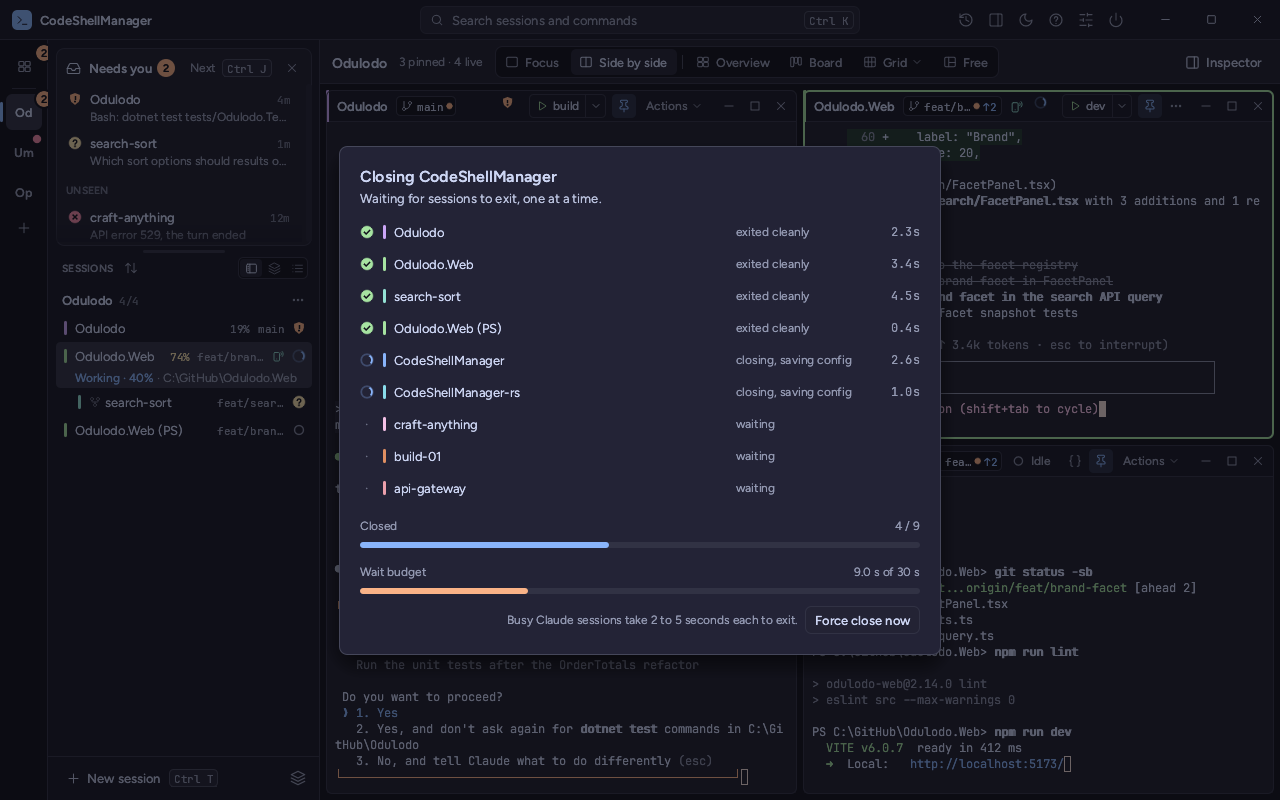
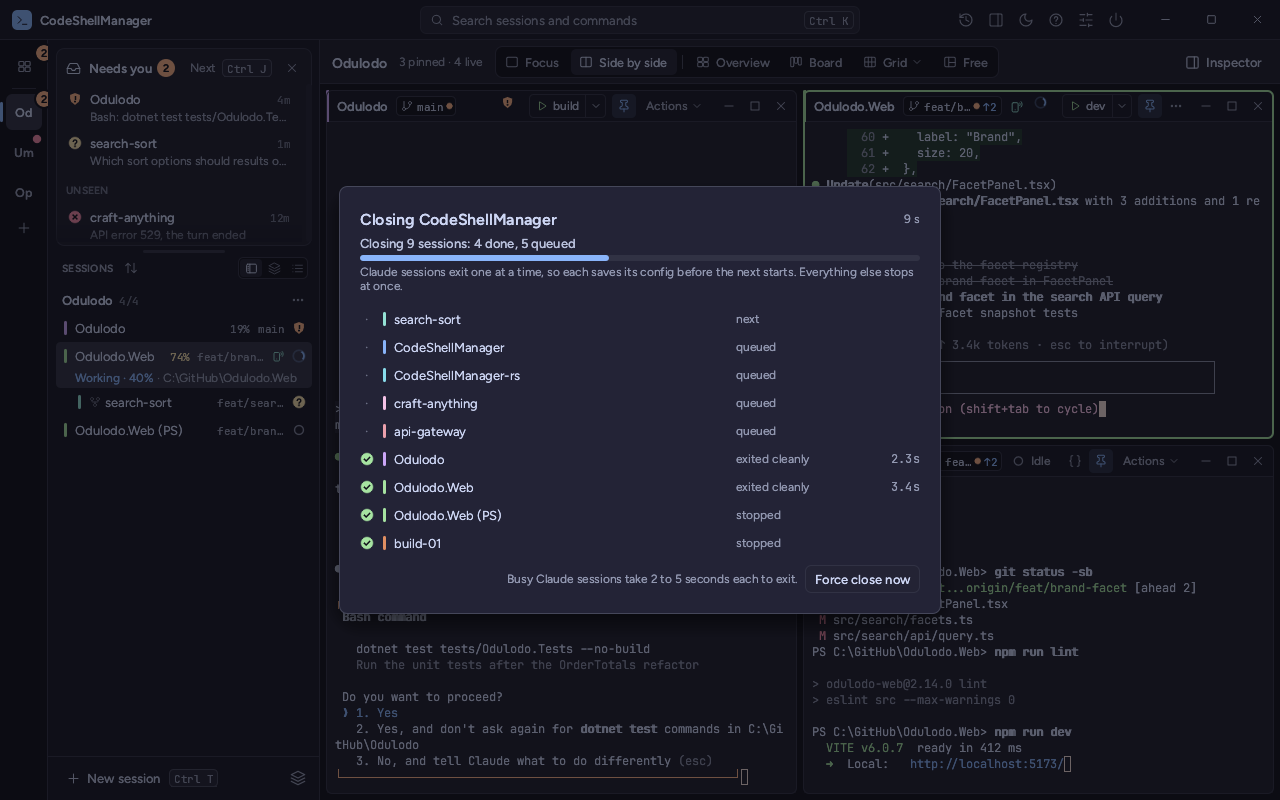
Quit board: fits the window, scrolls its rows, says what each is waiting for
- The board was one column of every row with nothing bounding its height: with ~70 sessions
  it ran off both ends of the window, hiding the title and Force close now. The header (title,
  "Closing N sessions: d done, c closing, q queued", the bar, elapsed time) and the footer now
  stay put and the rows scroll between them, sized to the window, down to a two-row list.
- Rows are ordered closing, forced, the queue in the engine's order (non-Claude first, then
  Claude sessions in sidebar order), then done (ShutdownBoard::ordered, tested).
- Waiting is by design: Claude sessions exit one at a time with the launch stagger between them
  so two never rewrite ~/.claude.json at once. Rows now say so: "next", "queued",
  "waiting for Claude to exit"; a shell reads "stopped" (it is killed, no wait, so no 0.0s);
  a Claude that was already gone reads "had already exited"; a forced row no longer claims
  "after 10 s" (the wait is 15 s per session).
- Demo board follows the engine's serial order; screenshots 10-shutdown-many(-short) with 73
  sessions in 1000x560 and 760x320 windows.

Claude-Session: https://claude.ai/code/session_01W5FasiVSwTVCABQ9n9zXTw

Changed region(s): [[0.25, 0.1562, 0.75, 0.8438], [0.5625, 0.4062, 0.6562, 0.625]]

diff --git a/crates/csm-ui/src/screens/overlays.rs b/crates/csm-ui/src/screens/overlays.rs
@@ -459,91 +459,87 @@ fn busy_dialog(ctx: &egui::Context, app: &mut CsmApp, actions: &mut Vec<Action>)
     });
 }
 
+/// The shutdown board. It always fits the window: the header (title, the count and the bar) and
+/// the footer (Force close now) stay put, and the rows scroll between them, the one closing now
+/// first, then the queue in the engine's order, then the ones that are done.
 fn shutdown_board(ctx: &egui::Context, app: &mut CsmApp, actions: &mut Vec<Action>) {
     let Some(board) = app.model.shutdown.clone() else { return };
     let t = Tokens::get(ctx);
     scrim(ctx, "shutdown-scrim");
     let screen = ctx.content_rect();
-    let done = board.rows.iter().filter(|r| matches!(r.state, ShutdownRowState::Clean | ShutdownRowState::Forced)).count();
+    let total = board.rows.len();
+    let done = board.done();
+    let closing = board.rows.iter().filter(|r| r.state == ShutdownRowState::Closing).count();
+    let queued = total.saturating_sub(done + closing);
     let any_forced = board.rows.iter().any(|r| r.state == ShutdownRowState::Forced);
     let hint = if any_forced {
-        "One session did not answer. It was closed without waiting; nothing else was lost."
+        "A session did not answer. It was closed without waiting; nothing else was lost."
     } else if board.budget_used_s < 6.0 {
         "Claude sessions get time to exit on their own so they can save their config."
     } else {
         "Busy Claude sessions take 2 to 5 seconds each to exit."
     };
+    let summary = match (done, closing) {
+        _ if done == total => format!("Closed all {total} sessions"),
+        (_, 0) => format!("Closing {total} sessions: {done} done, {queued} queued"),
+        _ => format!("Closing {total} sessions: {done} done, {closing} closing, {queued} queued"),
+    };
+    let is_claude = |id: &String| app.model.session(id).is_some_and(|s| s.is_claude());
+    let rows: Vec<_> = board.ordered(is_claude).into_iter().filter_map(|r| app.model.session(&r.session).map(|s| (r, s))).collect();
+    let next_claude = rows.iter().find(|(r, s)| r.state == ShutdownRowState::Pending && s.is_claude()).map(|(r, _)| r.session.clone());
+
+    let pad = space::LG + space::XS;
+    let width = size::BOARD_W.min(screen.width() - 2.0 * (space::LG + pad)).max(size::MENU_W);
+    let max_h = (screen.height() - 2.0 * (space::LG + pad)).max(size::ROW * 2.0);
+    // The footer's height from the last frame, so the list leaves room for it.
+    let footer_id = Id::new("shutdown-footer-h");
+    let footer_h = ctx.data(|d| d.get_temp::<f32>(footer_id)).unwrap_or(size::CONTROL_LG + size::ROW);
     egui::Area::new(Id::new("shutdown")).order(Order::Foreground).pivot(Align2::CENTER_CENTER).fixed_pos(screen.center()).show(ctx, |ui| {
-        widgets::pop_frame(&t).inner_margin(egui::Margin::same((space::LG + space::XS) as i8)).show(ui, |ui| {
-            ui.set_width(size::BOARD_W);
+        widgets::pop_frame(&t).inner_margin(egui::Margin::same(pad as i8)).show(ui, |ui| {
+            ui.set_width(width);
+            ui.set_max_height(max_h);
             ui.spacing_mut().item_spacing.y = space::XS;
-            ui.label(egui::RichText::new("Closing CodeShellManager").font(semibold(text::TITLE)).color(t.fg));
-            ui.label(egui::RichText::new("Waiting for sessions to exit, one at a time.").font(theme::regular(text::BODY)).color(t.fg2));
-            ui.add_space(space::SM);
-            for row in &board.rows {
-                let Some(s) = app.model.session(&row.session) else { continue };
-                let (r, _) = ui.allocate_exact_size(vec2(ui.available_width(), size::ROW), Sense::hover());
-                let cy = r.center().y;
-                let g = Rect::from_min_size(pos2(r.min.x, cy - icon::MD / 2.0), Vec2::splat(icon::MD));
-                match row.state {
-                    ShutdownRowState::Pending => {
-                        ui.painter().text(g.center(), Align2::CENTER_CENTER, "·", theme::regular(text::BODY), t.faint);
-                    }
-                    ShutdownRowState::Closing => {
-                        icons::paint_status(ui, g, Status::Working, icon::MD);
-                        icons::request_spinner_repaint(ui);
-                    }
-                    ShutdownRowState::Clean => icons::paint_status(ui, g, Status::Done, icon::MD),
-                    ShutdownRowState::Forced => icons::paint_status(ui, g, Status::Error, icon::MD),
-                }
-                ui.painter().rect_filled(
-                    Rect::from_center_size(pos2(g.max.x + space::ROW_X, cy), vec2(size::STRIPE, icon::MD)),
-                    CornerRadius::same(radius::SM / 2),
-                    t.accent(s.accent),
-                );
-                widgets::paint_text(
-                    ui,
-                    pos2(g.max.x + space::LG + space::XS, cy),
-                    Align2::LEFT_CENTER,
-                    &s.name,
-                    theme::regular(text::BODY),
-                    t.fg,
-                    size::MENU_W,
-                );
-                let word = match row.state {
-                    ShutdownRowState::Pending => "waiting",
-                    ShutdownRowState::Closing if s.is_claude() => "closing, saving config",
-                    ShutdownRowState::Closing => "closing",
-                    ShutdownRowState::Clean => "exited cleanly",
-                    ShutdownRowState::Forced => "force-closed after 10 s",
-                };
-                let wc = if row.state == ShutdownRowState::Forced { t.red } else { t.muted };
-                ui.painter().text(pos2(r.max.x - size::GRID_TILE_W * 2.0, cy), Align2::LEFT_CENTER, word, theme::regular(text::CAPTION), wc);
-                if row.state != ShutdownRowState::Pending {
-                    ui.painter().text(pos2(r.max.x, cy), Align2::RIGHT_CENTER, format!("{:.1}s", row.elapsed_s), theme::mono(text::MONO), t.muted);
-                }
-            }
-            ui.add_space(space::SM);
-            let lab = |ui: &mut Ui, a: &str, b: String| {
-                ui.horizontal(|ui| {
-                    ui.label(egui::RichText::new(a).font(theme::regular(text::CAPTION)).color(t.muted));
-                    ui.with_layout(egui::Layout::right_to_left(egui::Align::Center), |ui| {
-                        ui.label(egui::RichText::new(b).font(theme::regular(text::CAPTION)).color(t.muted));
-                    });
+            let top = ui.cursor().min.y;
+            ui.horizontal(|ui| {
+                ui.label(egui::RichText::new("Closing CodeShellManager").font(semibold(text::TITLE)).color(t.fg));
+                ui.with_layout(egui::Layout::right_to_left(egui::Align::Center), |ui| {
+                    ui.label(egui::RichText::new(format!("{:.0} s", board.budget_used_s)).font(theme::regular(text::CAPTION)).color(t.muted))
+                        .on_hover_text("Time since closing began.");
                 });
-            };
-            let total = board.rows.len().max(1);
-            lab(ui, "Closed", format!("{done} / {}", board.rows.len()));
-            widgets::bar(ui, done as f32 / total as f32, t.blue, size::BAR);
+            });
+            ui.label(egui::RichText::new(summary).font(theme::medium(text::BODY)).color(t.fg2));
+            widgets::bar(ui, done as f32 / total.max(1) as f32, t.blue, size::BAR);
+            ui.add(
+                egui::Label::new(
+                    egui::RichText::new(
+                        "Claude sessions exit one at a time, so each saves its config before the next starts. Everything else stops at once.",
+                    )
+                    .font(theme::regular(text::CAPTION))
+                    .color(t.muted),
+                )
+                .wrap(),
+            );
             ui.add_space(space::SM);
-            lab(ui, "Wait budget", format!("{:.1} s of {:.0} s", board.budget_used_s, board.budget_s));
-            widgets::bar(ui, board.budget_used_s / board.budget_s.max(1.0), t.peach, size::BAR);
+            let header_h = ui.cursor().min.y - top;
+            let list_h = (max_h - header_h - footer_h - space::SM).max(size::ROW * 2.0);
+            // show_rows spaces rows by the item spacing too: none, so the list is exactly its rows.
+            ui.spacing_mut().item_spacing.y = 0.0;
+            egui::ScrollArea::vertical().id_salt("shutdown-rows").max_height(list_h).auto_shrink([false, true]).show_rows(
+                ui,
+                size::ROW,
+                rows.len(),
+                |ui, range| {
+                    for (row, s) in rows.iter().skip(range.start).take(range.len()) {
+                        shutdown_row(ui, &t, row, s, next_claude.as_ref() == Some(&row.session));
+                    }
+                },
+            );
             ui.add_space(space::SM);
-            let waiting = done < board.rows.len();
+            let foot = ui.cursor().min.y;
             ui.horizontal(|ui| {
                 ui.with_layout(egui::Layout::right_to_left(egui::Align::Center), |ui| {
                     // `app_quit { force }`: the engine stops waiting for the remaining exits.
-                    if waiting
+                    if done < total
                         && widgets::button(ui, ButtonKind::Secondary, None, "Force close now", None)
                             .on_hover_text("Everything still running is stopped now, without waiting for it to exit on its own.")
                             .clicked()
@@ -553,6 +549,57 @@ fn shutdown_board(ctx: &egui::Context, app: &mut CsmApp, actions: &mut Vec<Actio
                     ui.add(egui::Label::new(egui::RichText::new(hint).font(theme::regular(text::CAPTION)).color(t.muted)).wrap());
                 });
             });
+            let fh = ui.cursor().min.y - foot;
+            ctx.data_mut(|d| d.insert_temp(footer_id, fh));
         });
     });
+}
+
+/// One row of the shutdown board: state glyph, accent, name, what it is doing or waiting for, and
+/// for a Claude session that finished, how long its exit took.
+fn shutdown_row(ui: &mut Ui, t: &Tokens, row: &crate::model::ShutdownRow, s: &crate::model::SessionView, next: bool) {
+    let (r, _) = ui.allocate_exact_size(vec2(ui.available_width(), size::ROW), Sense::hover());
+    let cy = r.center().y;
+    let g = Rect::from_min_size(pos2(r.min.x, cy - icon::MD / 2.0), Vec2::splat(icon::MD));
+    match row.state {
+        ShutdownRowState::Pending => {
+            ui.painter().text(g.center(), Align2::CENTER_CENTER, "·", theme::regular(text::BODY), t.faint);
+        }
+        ShutdownRowState::Closing => {
+            icons::paint_status(ui, g, Status::Working, icon::MD);
+            icons::request_spinner_repaint(ui);
+        }
+        ShutdownRowState::Clean => icons::paint_status(ui, g, Status::Done, icon::MD),
+        ShutdownRowState::Forced => icons::paint_status(ui, g, Status::Error, icon::MD),
+    }
+    ui.painter().rect_filled(
+        Rect::from_center_size(pos2(g.max.x + space::ROW_X, cy), vec2(size::STRIPE, icon::MD)),
+        CornerRadius::same(radius::SM / 2),
+        t.accent(s.accent),
+    );
+    let claude = s.is_claude();
+    // An exit measured at zero was no wait: the process was already gone when its turn came.
+    let instant = row.elapsed_s < 0.05;
+    let word = match row.state {
+        ShutdownRowState::Pending if claude && next => "next",
+        ShutdownRowState::Pending => "queued",
+        ShutdownRowState::Closing if claude => "waiting for Claude to exit",
+        ShutdownRowState::Closing => "stopping",
+        ShutdownRowState::Clean if !claude => "stopped",
+        ShutdownRowState::Clean if instant => "had already exited",
+        ShutdownRowState::Clean => "exited cleanly",
+        ShutdownRowState::Forced => "force-closed",
+    };
+    let wc = match row.state {
+        ShutdownRowState::Forced => t.red,
+        ShutdownRowState::Closing => t.fg2,
+        _ => t.muted,
+    };
+    let word_x = r.max.x - size::GRID_TILE_W * 2.0;
+    let name_x = g.max.x + space::LG + space::XS;
+    widgets::paint_text(ui, pos2(name_x, cy), Align2::LEFT_CENTER, &s.name, theme::regular(text::BODY), t.fg, word_x - name_x - space::SM);
+    ui.painter().text(pos2(word_x, cy), Align2::LEFT_CENTER, word, theme::regular(text::CAPTION), wc);
+    if claude && matches!(row.state, ShutdownRowState::Clean | ShutdownRowState::Forced) && !instant {
+        ui.painter().text(pos2(r.max.x, cy), Align2::RIGHT_CENTER, format!("{:.1}s", row.elapsed_s), theme::mono(text::MONO), t.muted);
+    }
 }

diff --git a/crates/csm-ui/src/demo/mod.rs b/crates/csm-ui/src/demo/mod.rs
@@ -471,30 +471,37 @@ impl DemoBackend {
         self.publish();
     }
 
+    /// As the engine runs it: everything that is not Claude is stopped at once, then the Claude
+    /// sessions one at a time (2.3-4.5 s each, `gw` wedged until its 15 s wait runs out) with the
+    /// 2 s launch stagger after each clean exit. Rows stay in sidebar order; the board sorts them.
     fn board_at(&self, t: f32) -> ShutdownBoard {
-        let rows = self
-            .model
-            .sessions
-            .iter()
-            .filter(|s| s.status.is_live())
-            .enumerate()
-            .map(|(i, s)| {
-                let start = i as f32 * 1.6;
-                let dur = if s.is_claude() { 2.3 + (i % 3) as f32 * 1.1 } else { 0.4 };
-                let forced = s.id == "gw";
-                let (state, elapsed) = if t < start {
-                    (ShutdownRowState::Pending, 0.0)
-                } else if forced && t >= start + 10.0 {
-                    (ShutdownRowState::Forced, 10.0)
-                } else if !forced && t >= start + dur {
-                    (ShutdownRowState::Clean, dur)
-                } else {
-                    (ShutdownRowState::Closing, t - start)
-                };
-                ShutdownRow { session: s.id.clone(), state, elapsed_s: elapsed }
-            })
-            .collect();
-        ShutdownBoard { rows, budget_used_s: t.min(30.0), budget_s: 30.0 }
+        const WAIT: f32 = 15.0;
+        const STAGGER: f32 = 2.0;
+        let live: Vec<_> = self.model.sessions.iter().filter(|s| s.status.is_live()).collect();
+        let mut rows = Vec::new();
+        let mut clock = 0.0;
+        for s in live.iter().filter(|s| !s.is_claude()) {
+            rows.push(ShutdownRow { session: s.id.clone(), state: ShutdownRowState::Clean, elapsed_s: 0.0 });
+        }
+        for (i, s) in live.iter().filter(|s| s.is_claude()).enumerate() {
+            let start = clock;
+            let forced = s.id == "gw";
+            let dur = if forced { WAIT } else { 2.3 + (i % 3) as f32 * 1.1 };
+            let (state, elapsed) = if t < start {
+                (ShutdownRowState::Pending, 0.0)
+            } else if t >= start + dur {
+                (if forced { ShutdownRowState::Forced } else { ShutdownRowState::Clean }, dur)
+            } else {
+                (ShutdownRowState::Closing, 0.0)
+            };
+            rows.push(ShutdownRow { session: s.id.clone(), state, elapsed_s: elapsed });
+            clock = start + dur + if forced { 0.0 } else { STAGGER };
+        }
+        let order: Vec<&String> = live.iter().map(|s| &s.id).collect();
+        rows.sort_by_key(|r| order.iter().position(|id| **id == r.session));
+        let claudes = live.iter().filter(|s| s.is_claude()).count().max(1) as f32;
+        let budget = claudes * (WAIT + STAGGER);
+        ShutdownBoard { rows, budget_used_s: t.min(budget), budget_s: budget }
     }
 
     /// The theme mode setting (`dark`, `light`, `system`; `mocha` and `latte` too).
@@ -1435,9 +1442,11 @@ impl Backend for DemoBackend {
         let mut out = Vec::new();
         if let Some(t0) = self.quitting {
             let t = t0.elapsed().as_secs_f32() * 2.0;
-            self.model.shutdown = Some(self.board_at(t));
+            let board = self.board_at(t);
+            let all_done = board.done() == board.rows.len();
+            self.model.shutdown = Some(board);
             self.publish();
-            if t > 24.0 {
+            if all_done {
                 self.quitting = None;
                 out.push(Notice::QuitReady);
             } else {

diff --git a/crates/csm-ui/src/model.rs b/crates/csm-ui/src/model.rs
@@ -799,6 +799,30 @@ pub struct ShutdownBoard {
     pub budget_s: f32,
 }
 
+impl ShutdownBoard {
+    /// Rows that have finished (exited cleanly or were forced).
+    pub fn done(&self) -> usize {
+        self.rows.iter().filter(|r| matches!(r.state, ShutdownRowState::Clean | ShutdownRowState::Forced)).count()
+    }
+
+    /// The rows in the order the board lists them: the one closing now, then any that were
+    /// forced, then the queue in the order the engine closes it (everything that is not Claude
+    /// first, then the Claude sessions one at a time in sidebar order), then the ones that
+    /// exited. `is_claude` says which rows are Claude sessions.
+    pub fn ordered(&self, is_claude: impl Fn(&SessionId) -> bool) -> Vec<&ShutdownRow> {
+        let rank = |r: &ShutdownRow| match r.state {
+            ShutdownRowState::Closing => 0,
+            ShutdownRowState::Forced => 1,
+            ShutdownRowState::Pending if !is_claude(&r.session) => 2,
+            ShutdownRowState::Pending => 3,
+            ShutdownRowState::Clean => 4,
+        };
+        let mut rows: Vec<&ShutdownRow> = self.rows.iter().collect();
+        rows.sort_by_key(|r| rank(r));
+        rows
+    }
+}
+
 /// Everything the screens draw.
 #[derive(Debug, Clone, PartialEq, Default)]
 pub struct UiModel {
@@ -1029,6 +1053,27 @@ pub fn fuzzy(query: &str, text: &str) -> Option<(f32, Vec<usize>)> {
 #[cfg(test)]
 mod tests {
     use super::*;
+
+    #[test]
+    fn the_shutdown_board_lists_closing_then_queue_then_done() {
+        let row = |id: &str, state| ShutdownRow { session: id.into(), state, elapsed_s: 0.0 };
+        let board = ShutdownBoard {
+            rows: vec![
+                row("c1", ShutdownRowState::Clean),
+                row("q1", ShutdownRowState::Pending),
+                row("shell", ShutdownRowState::Pending),
+                row("now", ShutdownRowState::Closing),
+                row("q2", ShutdownRowState::Pending),
+                row("f", ShutdownRowState::Forced),
+                row("c2", ShutdownRowState::Clean),
+            ],
+            budget_used_s: 0.0,
+            budget_s: 1.0,
+        };
+        let ids: Vec<&str> = board.ordered(|id| id != "shell").iter().map(|r| r.session.as_str()).collect();
+        assert_eq!(ids, ["now", "f", "shell", "q1", "q2", "c1", "c2"]);
+        assert_eq!(board.done(), 3);
+    }
 
     #[test]
     fn initials_follow_the_mock() {

diff --git a/crates/csm-ui/tests/screenshots.rs b/crates/csm-ui/tests/screenshots.rs
@@ -67,6 +67,19 @@ fn shoot_host(
     assert!(distinct.len() > 100, "{name} looks blank");
 }
 
+/// `n` more live Claude sessions, copies of the demo's first live Claude one.
+fn add_claude_sessions(b: &mut DemoBackend, n: usize) {
+    let m = b.model_mut();
+    let base = m.sessions.iter().find(|s| s.is_claude() && s.status.is_live()).cloned().expect("a live Claude session");
+    for i in 0..n {
+        let mut s = base.clone();
+        s.id = format!("many-{i}");
+        s.name = format!("project-{i:02}");
+        s.accent = csm_ui::model::Accent::Palette((i % 12) as u8);
+        m.sessions.push(s);
+    }
+}
+
 #[test]
 fn screens() {
     shoot("01-main", ThemeKind::Mocha, |_| {}, |_| {});
@@ -216,6 +229,19 @@ fn screens() {
     );
     shoot("10-restore", ThemeKind::Mocha, |b| b.set_restore(3), |_| {});
     shoot("10-shutdown", ThemeKind::Mocha, |b| b.set_shutdown(9.0), |_| {});
+    // ~70 sessions in a short window: the header and Force close now stay in view, the rows scroll.
+    for (name, size) in [("10-shutdown-many", egui::vec2(1000.0, 560.0)), ("10-shutdown-many-short", egui::vec2(760.0, 320.0))] {
+        shoot_sized(
+            name,
+            ThemeKind::Mocha,
+            size,
+            |b| {
+                add_claude_sessions(b, 64);
+                b.set_shutdown(40.0);
+            },
+            |_| {},
+        );
+    }
     shoot(
         "10-busy",
         ThemeKind::Mocha,
